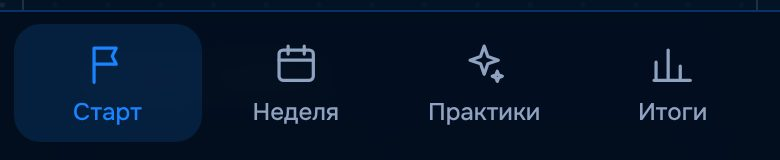
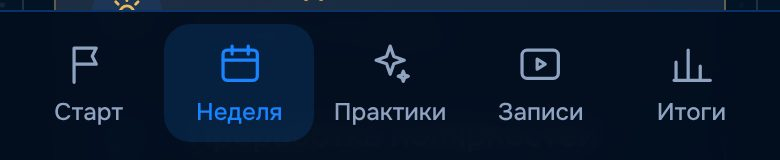
Инструкция: структурированный короткий текст с подзаголовками и новые скриншоты в нынешнем виде трекера
Claude-Session: https://claude.ai/code/session_01Ap7g13T5idtYD8rgZRr2ux

diff --git a/guide.html b/guide.html
@@ -46,6 +46,17 @@ figure.small img { max-width: 390px; }
 .tip b { color: var(--gold); }
 .foot { margin-top: 56px; padding-top: 20px; border-top: 1px solid var(--line-soft); color: var(--muted); font-size: 14px; text-align: center; }
 .foot .cta { margin-top: 12px; }
+
+h3.sub { font-family: var(--body); font-size: 13px; font-weight: 600; letter-spacing: .14em; text-transform: uppercase; color: var(--acc2); margin: 26px 0 8px; }
+.block { background: var(--surface); border: 1px solid var(--line-soft); border-radius: 14px; padding: 14px 16px; margin: 14px 0; }
+.block p:last-child, .block ul:last-child, .block ol:last-child { margin-bottom: 0; }
+.tabs-grid { display: grid; grid-template-columns: repeat(auto-fit, minmax(150px, 1fr)); gap: 10px; margin: 14px 0; }
+.tabs-grid div { background: var(--surface); border: 1px solid var(--line-soft); border-radius: 12px; padding: 12px 14px; }
+.tabs-grid b { display: block; color: #fff; margin-bottom: 2px; }
+.tabs-grid span { font-size: 14px; color: var(--muted); }
+.sched { display: grid; grid-template-columns: auto auto 1fr; gap: 6px 14px; align-items: baseline; }
+.sched b { color: var(--acc2); }
+figure img { max-width: 360px; }
 </style>
 </head>
 <body>
@@ -53,118 +64,139 @@ figure.small img { max-width: 390px; }
   <div class="top"><span>Т Х</span><span>инструкция</span></div>
   <p class="by">Психология финансового масштаба</p>
   <h1>Как пользоваться <em>трекером</em></h1>
-  <p class="lead">Самое необходимое за пять минут: как зарегистрироваться, включить напоминания, что отмечать каждую неделю и где найти практики.</p>
+  <p class="lead">Коротко: регистрация, напоминания и что отмечать каждую неделю.</p>
   <a class="cta" href="./">Открыть трекер</a>
 
   <ol class="toc">
     <li><a href="#reg">Регистрация</a></li>
-    <li><a href="#home">Иконка на телефоне</a></li>
-    <li><a href="#push">Напоминания об эфирах</a></li>
+    <li><a href="#home">Иконка и напоминания</a></li>
     <li><a href="#tabs">Разделы трекера</a></li>
-    <li><a href="#week">Неделя: встреча и отметки</a></li>
-    <li><a href="#practice">Практики и техники</a></li>
-    <li><a href="#total">Итоги</a></li>
+    <li><a href="#week">Неделя</a></li>
+    <li><a href="#practice">Практики</a></li>
+    <li><a href="#records">Записи и итоги</a></li>
   </ol>
 
   <section id="reg">
     <p class="step">Шаг 1</p>
     <h2>Регистрация</h2>
     <ol>
-      <li>Откройте трекер по ссылке и нажмите <b>«Регистрация»</b>.</li>
-      <li>Впишите имя и фамилию, выберите свой тариф, укажите ник в Telegram (через него с вами свяжется куратор).</li>
-      <li>Введите почту и придумайте пароль от 6 символов. Нажмите <b>«Зарегистрироваться»</b>.</li>
+      <li>Откройте трекер → <b>«Регистрация»</b>.</li>
+      <li>Имя, тариф, ник в Telegram, почта и пароль.</li>
+      <li><b>«Зарегистрироваться»</b>.</li>
     </ol>
-    <figure><img src="guide/01-signup.jpg" alt="Экран регистрации: имя, тариф, ник в Telegram, почта и пароль" loading="lazy"></figure>
-    <div class="tip"><b>В следующий раз</b> нажимайте «Вход» и вводите ту же почту и пароль. Забыли пароль — нажмите «Забыли пароль?» под кнопкой входа.</div>
+    <figure><img src="guide/01-signup.jpg" alt="Экран регистрации" loading="lazy"></figure>
+    <div class="tip"><b>Дальше</b> входите через «Вход» с той же почтой и паролем.</div>
   </section>
 
   <section id="home">
     <p class="step">Шаг 2</p>
-    <h2>Иконка на телефоне</h2>
-    <p>Чтобы трекер открывался как приложение, добавьте его на главный экран:</p>
+    <h2>Иконка и напоминания</h2>
+    <h3 class="sub">Иконка на главном экране</h3>
     <ul>
-      <li><b>iPhone (Safari):</b> кнопка «Поделиться» внизу → «На экран „Домой“».</li>
-      <li><b>Android (Chrome):</b> три точки справа сверху → «Добавить на главный экран».</li>
+      <li><b>iPhone, Safari:</b> «Поделиться» → «На экран „Домой“».</li>
+      <li><b>Android, Chrome:</b> ⋮ → «Добавить на главный экран».</li>
     </ul>
-  </section>
-
-  <section id="push">
-    <p class="step">Шаг 3</p>
-    <h2>Напоминания об эфирах</h2>
-    <p>Трекер сам напомнит об уроке с Татьяной (четверг, 9:00 по Киеву) и о занятиях с кураторами: <b>за сутки и за час</b> до начала. Нажмите на уведомление — откроется эфир.</p>
+    <h3 class="sub">Напоминания об эфирах</h3>
     <ol>
-      <li>Откройте вкладку <b>«Старт»</b> — блок с напоминаниями в самом верху.</li>
-      <li>В блоке «Напоминания на телефон» нажмите <b>«Включить напоминания»</b>.</li>
-      <li>Телефон спросит разрешение — нажмите <b>«Разрешить»</b>. Придёт уведомление «Напоминания включены».</li>
+      <li>Вкладка <b>«Старт»</b> → <b>«Включить напоминания»</b>.</li>
+      <li>Телефон спросит разрешение → <b>«Разрешить»</b>.</li>
     </ol>
-    <div class="tip"><b>На iPhone</b> напоминания работают только из трекера на экране «Домой» (шаг 2). Откройте трекер с иконки — и кнопка появится.</div>
+    <p>Уведомление придёт за сутки и за час до эфира. Нажмите — откроется эфир.</p>
+    <figure><img src="guide/12-push.jpg" alt="Блок Напоминания на телефон" loading="lazy"></figure>
+    <div class="tip"><b>iPhone:</b> напоминания работают, только если трекер открыт с иконки на экране «Домой».</div>
   </section>
 
   <section id="tabs">
-    <p class="step">Шаг 4</p>
+    <p class="step">Шаг 3</p>
     <h2>Разделы трекера</h2>
-    <p>Внизу экрана пять вкладок:</p>
-    <figure class="small"><img src="guide/10-tabs.jpg" alt="Нижнее меню: Старт, Неделя, Практики, Итоги" width="390" height="80" loading="lazy"></figure>
-    <ul>
-      <li><b>Старт</b> — заполняется один раз в начале: с чем вы пришли в программу, доход на старте и оценка себя «до».</li>
-      <li><b>Неделя</b> — главный раздел, сюда заходите каждый день.</li>
-      <li><b>Практики</b> — задания модуля и техники для самостоятельной работы.</li>
-      <li><b>Записи</b> — все записи уроков с Татьяной и занятий с кураторами в одном месте.</li>
-      <li><b>Итоги</b> — ваш прогресс за всю программу.</li>
-    </ul>
-    <div class="tip"><b>Всё сохраняется само</b> — кнопки «Сохранить» нет. Татьяна и кураторы видят ваши отметки.</div>
+    <figure><img src="guide/10-tabs.jpg" alt="Нижнее меню трекера" loading="lazy"></figure>
+    <div class="tabs-grid">
+      <div><b>Старт</b><span>один раз в начале</span></div>
+      <div><b>Неделя</b><span>каждый день</span></div>
+      <div><b>Практики</b><span>задания модуля</span></div>
+      <div><b>Записи</b><span>записи эфиров</span></div>
+      <div><b>Итоги</b><span>ваш прогресс</span></div>
+    </div>
+    <div class="tip"><b>Всё сохраняется само.</b> Кнопки «Сохранить» нет.</div>
   </section>
 
   <section id="week">
-    <p class="step">Шаг 5</p>
-    <h2>Неделя: встреча и отметки</h2>
-    <p>Трекер сам открывает текущую неделю. Кольцо справа показывает, сколько пунктов недели вы уже выполнили.</p>
-    <div class="tip"><b>Расписание:</b> каждый понедельник в 18:00 — занятие с куратором, каждый четверг в 9:00 — урок с Татьяной (по Киеву). Даты на текущую неделю — в блоке «Расписание недели» под заголовком.</div>
-    <p>Вверху — блок <b>«Сегодня»</b>: что сделать прямо сейчас. Эфир сегодня или завтра с кнопкой подключения, ежедневная практика с кнопкой <b>«✓ Сделано»</b>, новая практика, неотмеченная встреча. Когда всё сделано, там появится «На сегодня всё сделано ✨».</p>
-    <p>В блоке <b>«Встреча с Татьяной»</b> — дата встречи, кнопка <b>«Перейти на эфир»</b> и записи. Если запись разделена на части, будет несколько кнопок.</p>
-    <figure><img src="guide/02-week-top.jpg" alt="Верх недели: приветствие, кольцо прогресса, выбор недели и блок встречи с кнопками эфира и записи" width="390" height="700" loading="lazy"></figure>
+    <p class="step">Шаг 4</p>
+    <h2>Неделя</h2>
+    <p>Главный раздел. Трекер сам открывает текущую неделю.</p>
 
-    <p>Ниже отмечайте галочками, что сделали за неделю:</p>
-    <figure><img src="guide/03-week-checks.jpg" alt="Список на этой неделе: встреча с Татьяной, занятие с куратором, созвон с бадди" width="390" height="301" loading="lazy"></figure>
-    <p><b>Каждый день</b> — в первые две недели вместо протокола: каждый день проработка полярностей и эмоций. Кнопка <b>«Открыть ↗»</b> ведёт в тренажёр, а после практики отметьте день кружком. Так легче держать ритм.</p>
-    <figure><img src="guide/04-daily.jpg" alt="Блок Каждый день: проработка полярностей и эмоций, отметки по дням недели" width="336" height="427" loading="lazy"></figure>
+    <h3 class="sub">Расписание</h3>
+    <div class="block sched">
+      <span>Понедельник</span><b>18:00</b><span>Занятие с куратором</span>
+      <span>Четверг</span><b>09:00</b><span>Урок с Татьяной</span>
+    </div>
+    <p>Время по Киеву. Даты этой недели — под названием недели.</p>
+    <figure><img src="guide/13-sched.jpg" alt="Расписание недели" loading="lazy"></figure>
 
+    <h3 class="sub">Сегодня</h3>
+    <p>Что сделать сейчас: эфир, ежедневная практика, новая практика.</p>
+    <figure><img src="guide/14-today.jpg" alt="Блок Сегодня" loading="lazy"></figure>
 
-    <p>В конце страницы недели — короткие записи для себя:</p>
+    <h3 class="sub">Эфиры</h3>
     <ul>
-      <li><b>Действие недели</b> — один шаг, который приведёт к деньгам.</li>
-      <li><b>Главный инсайт</b> и <b>итог недели</b> — своими словами.</li>
+      <li><b>«Перейти на эфир»</b> — урок с Татьяной.</li>
+      <li><b>«Подключиться»</b> — занятие с куратором.</li>
     </ul>
-    <p>Ниже встречи с Татьяной — <b>«Занятия с кураторами»</b>: дата, время, тема, кнопка <b>«Подключиться»</b> и запись после занятия. Пока расписание не утверждено, там написано «Расписание уточняется».</p>
-    <figure><img src="guide/11-curator-push.jpg" alt="Блок Занятия с кураторами с датой, темой и кнопкой Подключиться" width="390" loading="lazy"></figure>
-    <figure><img src="guide/05-reflection.jpg" alt="Действие недели и поле для главного инсайта" width="390" height="334" loading="lazy"></figure>
+    <figure><img src="guide/02-meet.jpg" alt="Встреча с Татьяной" loading="lazy"></figure>
+    <figure><img src="guide/11-curator.jpg" alt="Занятия с кураторами" loading="lazy"></figure>
+
+    <h3 class="sub">Отметки недели</h3>
+    <p>Отмечайте, что сделали: урок, занятие с куратором, бадди.</p>
+    <figure><img src="guide/03-week-checks.jpg" alt="На этой неделе" loading="lazy"></figure>
+
+    <h3 class="sub">Каждый день · недели 1–2</h3>
+    <p>Полярности и эмоции: <b>«Открыть ↗»</b> → после практики отметьте день.</p>
+    <figure><img src="guide/04-daily.jpg" alt="Каждый день" loading="lazy"></figure>
+
+    <h3 class="sub">Записи для себя</h3>
+    <ul>
+      <li><b>Действие недели</b> — один шаг к деньгам.</li>
+      <li><b>Главный инсайт</b> и <b>итог недели</b>.</li>
+    </ul>
+    <figure><img src="guide/05-action.jpg" alt="Действие недели" loading="lazy"></figure>
   </section>
 
   <section id="practice">
-    <p class="step">Шаг 6</p>
-    <h2>Практики и техники</h2>
-    <p>Во вкладке <b>«Практики»</b> — задания текущего модуля. Практики открываются после встречи с Татьяной, поэтому в будущих неделях стоит «скоро».</p>
-    <ul>
-      <li>Кнопка <b>«Пройти практику»</b> открывает практику.</li>
-      <li><b>«Описание»</b> — подробности, что и как делать.</li>
-    </ul>
-    <figure><img src="guide/06-practice.jpg" alt="Вкладка Практики: выбор недели и карточка практики с кнопкой Пройти практику" width="390" height="573" loading="lazy"></figure>
-    <p>Когда выполните, запишите, что заметили, и нажмите <b>«Отметить выполненной»</b>.</p>
-    <figure><img src="guide/07-practice-done.jpg" alt="Поле для заметок после практики и кнопка Отметить выполненной" width="390" height="214" loading="lazy"></figure>
-    <p>Ниже, в блоке <b>«Техники»</b>, — тренажёры для самостоятельной работы между встречами: метафорические карты, проработка эмоций и полярностей. Каждый открывается отдельно.</p>
-    <figure><img src="guide/08-tools.jpg" alt="Блок Техники с карточкой Метафорические карты и кнопкой Открыть" width="390" height="454" loading="lazy"></figure>
-    <div class="tip"><b>Есть вопрос?</b> Пишите в общий чат программы — там вам ответят Татьяна и кураторы.</div>
+    <p class="step">Шаг 5</p>
+    <h2>Практики</h2>
+    <p>Открываются по ходу модуля.</p>
+
+    <h3 class="sub">Практика</h3>
+    <ol>
+      <li><b>«Пройти практику»</b>.</li>
+      <li><b>«Описание»</b> → <b>«Отметить выполненной»</b>.</li>
+    </ol>
+    <figure><img src="guide/06-practice.jpg" alt="Карточка практики" loading="lazy"></figure>
+
+    <h3 class="sub">Видео-практика</h3>
+    <p>Нажмите ▶ — видео откроется прямо в трекере. После — <b>«Отметить выполненной»</b>.</p>
+    <figure><img src="guide/15-video.jpg" alt="Видео-практика" loading="lazy"></figure>
+
+    <h3 class="sub">Техники · неделя 1</h3>
+    <p>Метафорические карты, эмоции, полярности — <b>«Открыть»</b>.</p>
+    <figure><img src="guide/08-tools.jpg" alt="Техники" loading="lazy"></figure>
+
+    <div class="tip"><b>Есть вопрос?</b> Пишите в общий чат программы.</div>
   </section>
 
-  <section id="total">
-    <p class="step">Шаг 7</p>
-    <h2>Итоги</h2>
-    <p>Здесь собирается всё, что вы отметили: встречи, занятия с куратором, практики и доход. Ничего заполнять не нужно, кроме дохода и оценки результатов в конце программы.</p>
-    <figure><img src="guide/09-total.jpg" alt="Итоги программы: встречи с Татьяной, занятия с куратором, практики" width="390" height="294" loading="lazy"></figure>
+  <section id="records">
+    <p class="step">Шаг 6</p>
+    <h2>Записи и итоги</h2>
+    <h3 class="sub">Записи</h3>
+    <p>Все записи эфиров по модулям: <b>▶ Урок с Татьяной</b>, <b>▶ Занятие с куратором</b>.</p>
+    <figure><img src="guide/16-records.jpg" alt="Записи эфиров" loading="lazy"></figure>
+    <h3 class="sub">Итоги</h3>
+    <p>Собираются сами. В конце программы — доход и оценка себя «после».</p>
+    <figure><img src="guide/09-total.jpg" alt="Итоги программы" loading="lazy"></figure>
   </section>
 
   <div class="foot">
-    <p>Главное — заходить каждый день на вкладку «Неделя» и отмечать, что сделали.</p>
+    <p>Главное — каждый день заходить на «Неделю» и отмечать, что сделали.</p>
     <a class="cta" href="./">Открыть трекер</a>
   </div>
 </div>
